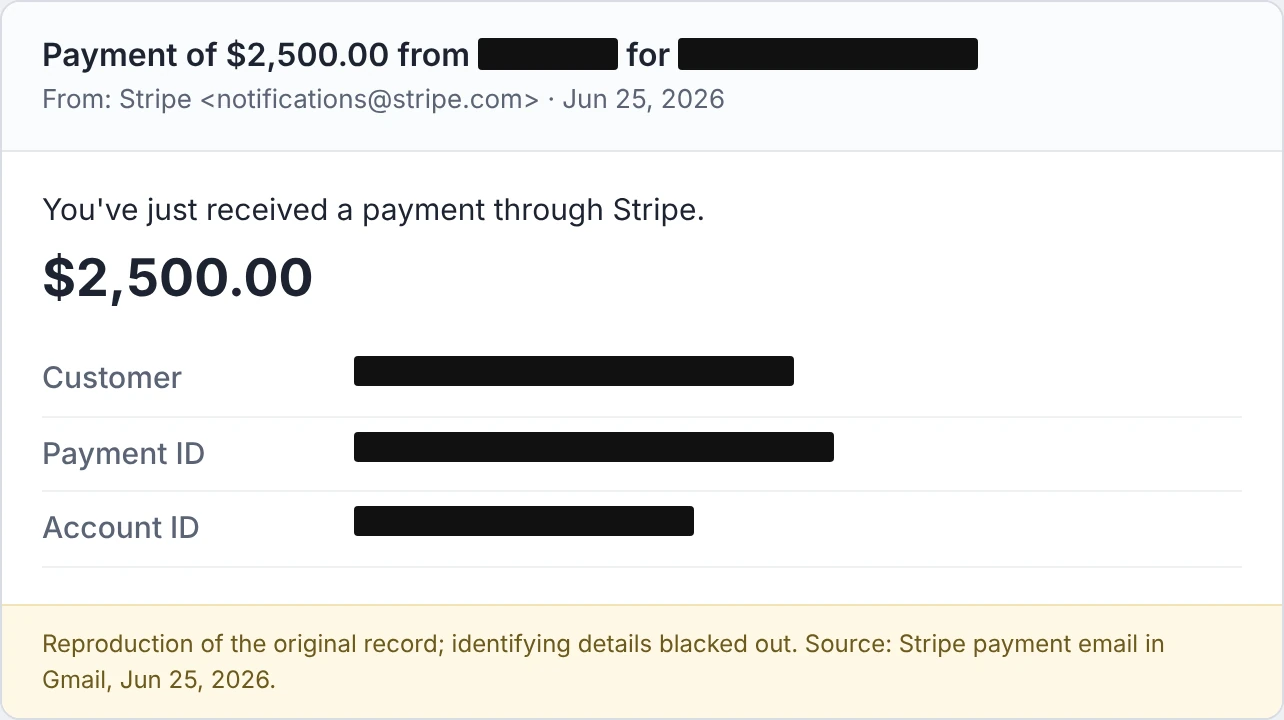
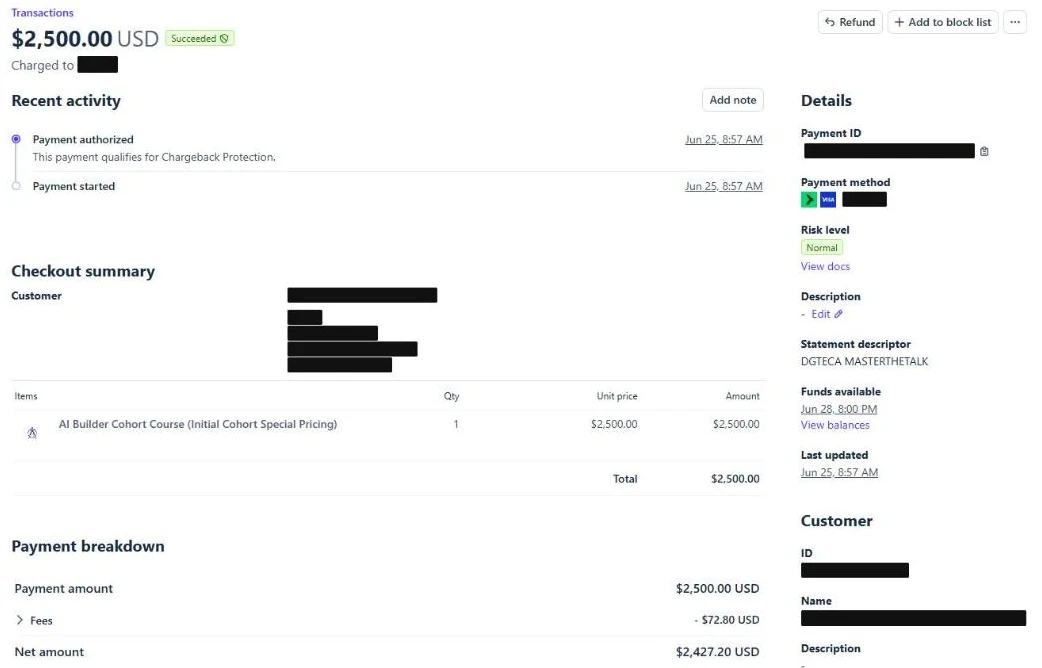
Proof: real redacted Stripe and Fidelity receipts; booking link set
- stripe-2500.webp: Stripe dashboard screenshot of the Jun 25, 2026 payment,
  client name, contact details, payment ID and card blacked out
- fidelity-3000.webp: the original Sep 16, 2026 Fidelity wire alert email,
  account digits blacked out
- index.html: dimensions, alt text and source lines updated
- cohort.yaml: Calendly booking link

Claude-Session: https://claude.ai/code/session_01WWjUg3xw2LBxEeHwT3zdjw

diff --git a/site/public/index.html b/site/public/index.html
@@ -283,8 +283,8 @@ footer{border-top:1px solid var(--line);padding-block:32px 48px;display:flex;fle
     <p class="rgroup">$9,900 from three people who already knew my work</p>
     <div class="receipts two">
       <figure class="receipt">
-        <a href="/proof/stripe-2500.webp" target="_blank" rel="noopener"><img src="/proof/stripe-2500.webp" width="1284" height="720" loading="lazy" alt="Stripe payment notification for $2,500.00 on June 25, 2026, with customer and payment details blacked out"></a>
-        <figcaption><b>$2,500</b><span>Client one: a paid engagement from someone I'd worked with before.</span><span class="src">Stripe payment email, Jun 25, 2026. Record reproduced from the original email.</span></figcaption>
+        <a href="/proof/stripe-2500.webp" target="_blank" rel="noopener"><img src="/proof/stripe-2500.webp" width="1042" height="668" loading="lazy" alt="Stripe dashboard: $2,500.00 payment succeeded June 25, 2026, with the customer's name, contact details, payment ID and card blacked out"></a>
+        <figcaption><b>$2,500</b><span>Client one: a paid engagement from someone I'd worked with before.</span><span class="src">Stripe dashboard screenshot, payment of Jun 25, 2026.</span></figcaption>
       </figure>
       <figure class="receipt">
         <a href="/proof/mercury-6000.webp" target="_blank" rel="noopener"><img src="/proof/mercury-6000.webp" width="1284" height="674" loading="lazy" alt="Mercury incoming payment of $6,000.00 posted October 14, 2026, categorized as revenue, account blacked out"></a>
@@ -306,8 +306,8 @@ footer{border-top:1px solid var(--line);padding-block:32px 48px;display:flex;fle
     </div>
     <div class="receipts">
       <figure class="receipt side">
-        <a href="/proof/fidelity-3000.webp" target="_blank" rel="noopener"><img src="/proof/fidelity-3000.webp" width="1284" height="700" loading="lazy" alt="Fidelity alert: $3,000.00 wired to business checking on September 16, 2026, account numbers blacked out"></a>
-        <figcaption><b>$3,000</b><span>Old cash sitting in a Fidelity account, wired back to my business account.</span><span class="src">Fidelity alert email, Sep 16, 2026, matching wire in Mercury the same day. Record reproduced from the original email.</span></figcaption>
+        <a href="/proof/fidelity-3000.webp" target="_blank" rel="noopener"><img src="/proof/fidelity-3000.webp" width="1284" height="1218" loading="lazy" alt="Fidelity alert email: we successfully wired $3,000.00 to your bank on September 16, 2026, with the account number blacked out"></a>
+        <figcaption><b>$3,000</b><span>Old cash sitting in a Fidelity account, wired back to my business account.</span><span class="src">Fidelity alert email, Sep 16, 2026, matching wire in Mercury the same day. Screenshot of the original email.</span></figcaption>
       </figure>
     </div>
     <p class="kicker">Then I ran the finished system on my own inbox: seven money moves, 22 minutes, every one already drafted. The only thing missing was me pressing Send. That's why the program has a daily minimum and a coach.</p>
